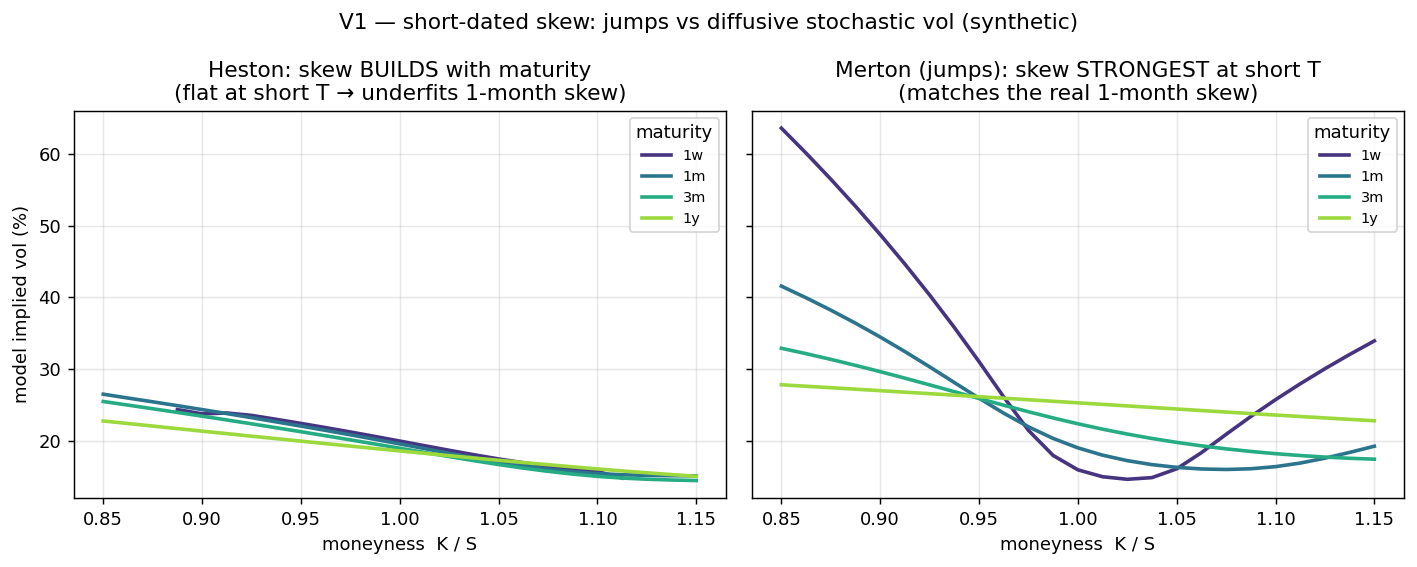
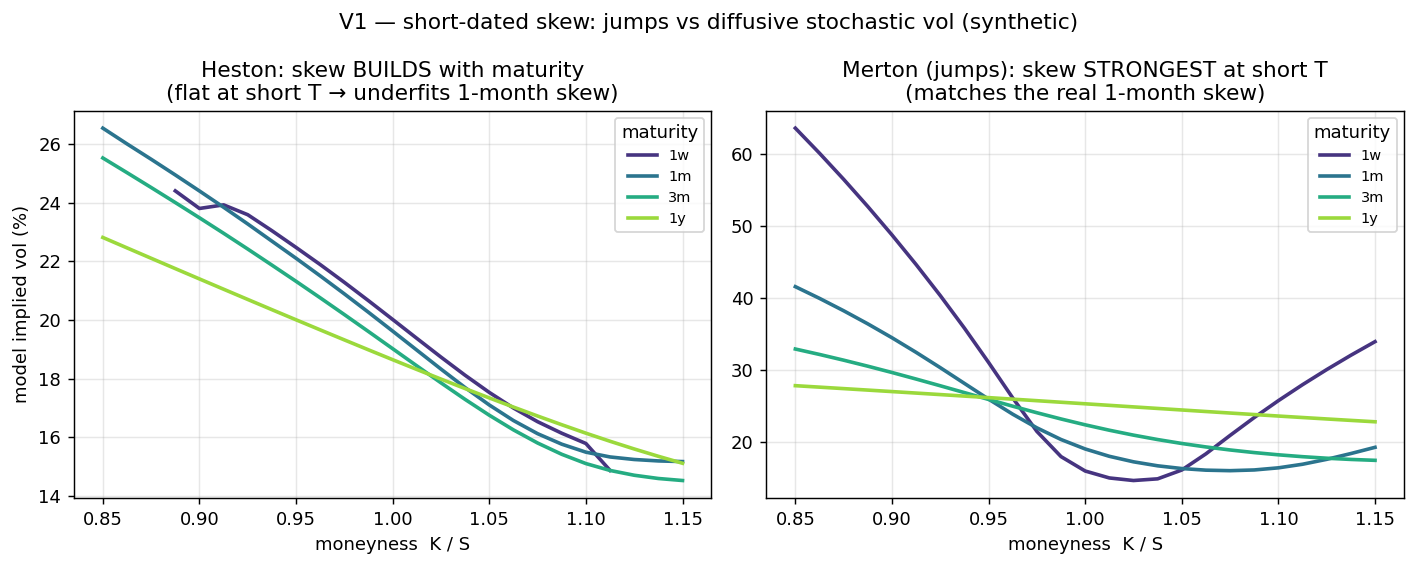
fix(figures): correct V1/V4 labels and the V4 number, regenerate
- evidence_map: V4 gamma-concentration share is now derived from the same
  computation as the V4 figure (was hardcoded 38% while the figure showed 42%).
- v4_concentration: x-axis relabelled "largest convexity-P&L first" (the curve is
  sorted by gamma P&L, not raw move size).
- v1_term_structure: drop sharey so the Heston panel is not compressed by the
  Merton short-dated spike; price all strikes in one FFT, and mask deep-wing 1w
  points whose implied vol is not invertible (no time value) instead of plotting
  a misleading cliff to 0%.
- v6_calibration: title date range now derived from the data rather than hardcoded.

diff --git a/reports/make_figures.py b/reports/make_figures.py
@@ -22,6 +22,7 @@ import numpy as np  # noqa: E402
 sys.path.insert(0, str(Path(__file__).resolve().parent.parent))
 
 from config import DEFAULT_RISK_FREE_RATE as R  # noqa: E402
+from config import TRADING_DAYS
 from data.fetcher import fetch_and_cache  # noqa: E402
 from models.black_scholes import BlackScholes  # noqa: E402
 from models.heston import HestonParams, heston_implied_vol, heston_price_fft  # noqa: E402
@@ -37,13 +38,26 @@ def _miss():
     raise RuntimeError("cache missing — run the V-notebooks first")
 
 
+def _top5_convexity_share() -> int:
+    """Return the top-5% convexity-P&L share as an integer percent (used in V4 figures)."""
+    S, IV = _spy_vix()
+    tau = 21 / TRADING_DAYS
+    dS = np.diff(S)
+    gamma = np.array([BlackScholes(S[t], S[t], tau, R, IV[t]).gamma() for t in range(len(S) - 1)])
+    gpnl = 0.5 * gamma * dS ** 2
+    order = np.argsort(gpnl)[::-1]
+    cum = np.cumsum(gpnl[order]) / gpnl.sum()
+    return int(round(cum[int(0.05 * len(cum))] * 100))
+
+
 def fig_evidence_map() -> None:
     """Synthetic claim → real-data verdict, one row per verification (the project anchor)."""
+    v4_share = _top5_convexity_share()
     rows = [
         ("V1  smile / skew", "Merton (jumps) fits short skew 0.52vp;\nHeston underfits 1.7vp; flat BS 4.5vp", GREEN),
         ("V2  fat tails", "excess kurtosis 15.2, GBM rejected\n(Student-t/jump-mix beats Normal by AIC)", GREEN),
         ("V3  MV-delta", "positive vs 0% GBM null; magnitude\ninflated by VIX-as-IV (~88% leakage)", AMBER),
-        ("V4  gamma P&L", "concentrates on big moves (38%) —\n= fat-tail null, illustrative not jumps", AMBER),
+        ("V4  gamma P&L", f"concentrates on big moves ({v4_share}%) —\n= fat-tail null, illustrative not jumps", AMBER),
         ("V5  deep hedge OOS", "−42% turnover, CI [0.56,0.62] (clean);\nCVaR gain not robust (drift-aided)", GREEN),
         ("V6  longshot bias", "83k markets: slope 1.08 > 1 across tiers/years\n(cluster-robust); longshot side measure-sensitive", GREEN),
     ]
@@ -78,14 +92,22 @@ def fig_v1_term_structure() -> None:
     K = mny * S
     maturities = [(1 / 52, "1w"), (1 / 12, "1m"), (0.25, "3m"), (1.0, "1y")]
     hp = HestonParams(kappa=2.0, theta=0.04, xi=0.6, rho=-0.7, v0=0.04)
-    fig, (a1, a2) = plt.subplots(1, 2, figsize=(11, 4.4), sharey=True)
+    fig, (a1, a2) = plt.subplots(1, 2, figsize=(11, 4.4), sharey=False)
     cmap = plt.cm.viridis(np.linspace(0.15, 0.85, len(maturities)))
     for (T, lbl), c in zip(maturities, cmap, strict=False):
-        hiv = [heston_implied_vol(float(heston_price_fft(S, np.array([k]), T, R, hp)[0]), S, k, T, R) for k in K]
-        miv = [BlackScholes(S, k, T, R, 0.2).implied_vol(
-            MertonJumpDiffusion(S, k, T, R, 0.13, 1.0, -0.18, 0.15).price("call"), "call") for k in K]
-        a1.plot(mny, np.array(hiv) * 100, color=c, lw=2, label=lbl)
-        a2.plot(mny, np.array(miv) * 100, color=c, lw=2, label=lbl)
+        # Price every strike in one FFT, then invert. Deep-wing 1w options have
+        # no invertible time value (FFT price = intrinsic), so their implied vol
+        # comes back ~0; mask those rather than draw a misleading cliff to zero.
+        hpx = heston_price_fft(S, K, T, R, hp)
+        hiv = np.array([heston_implied_vol(float(px), S, k, T, R) or np.nan
+                        for px, k in zip(hpx, K, strict=False)], dtype=float)
+        miv = np.array([BlackScholes(S, k, T, R, 0.2).implied_vol(
+            MertonJumpDiffusion(S, k, T, R, 0.13, 1.0, -0.18, 0.15).price("call"), "call") or np.nan
+            for k in K], dtype=float)
+        hiv[hiv < 1e-4] = np.nan
+        miv[miv < 1e-4] = np.nan
+        a1.plot(mny, hiv * 100, color=c, lw=2, label=lbl)
+        a2.plot(mny, miv * 100, color=c, lw=2, label=lbl)
     a1.set_title("Heston: skew BUILDS with maturity\n(flat at short T → underfits 1-month skew)")
     a2.set_title("Merton (jumps): skew STRONGEST at short T\n(matches the real 1-month skew)")
     for a in (a1, a2):
@@ -108,7 +130,7 @@ def _spy_vix():
 def fig_v4_concentration() -> None:
     """Short-gamma P&L concentrates on big-move days — vs a fat-tailed null."""
     S, IV = _spy_vix()
-    tau = 21 / 252
+    tau = 21 / TRADING_DAYS
     dS = np.diff(S)
     gamma = np.array([BlackScholes(S[t], S[t], tau, R, IV[t]).gamma() for t in range(len(S) - 1)])
     gpnl = 0.5 * gamma * dS ** 2
@@ -120,7 +142,7 @@ def fig_v4_concentration() -> None:
     a1.plot([0, 100], [0, 100], color=GREY, ls=":", label="uniform (no concentration)")
     a1.axvline(5, color=AMBER, ls="--", lw=1)
     a1.text(6, 20, f"top 5% of days\n→ {cum[int(0.05 * len(cum))] * 100:.0f}% of convexity P&L", fontsize=8.5)
-    a1.set_xlabel("% of days (largest move first)")
+    a1.set_xlabel("% of days (largest convexity-P&L first)")
     a1.set_ylabel("cumulative % of convexity P&L")
     a1.set_title("Convexity P&L is concentrated…")
     rng = np.random.default_rng(42)
@@ -144,6 +166,8 @@ def fig_v4_concentration() -> None:
 def fig_v6_calibration() -> None:
     """The favorite–longshot calibration curve over 83k resolved Polymarket markets."""
     pm = fetch_and_cache("polymarket", "resolved_trades", "2026-06-20", _miss)
+    _yr_min = int(pm["end_date"].dt.year.min())
+    _yr_max = int(pm["end_date"].dt.year.max())
     p = pm["prob"].to_numpy()
     y = pm["y"].to_numpy()
     edges = np.array([0, .05, .1, .2, .35, .5, .65, .8, .95, 1.0])
@@ -165,7 +189,7 @@ def fig_v6_calibration() -> None:
     ax.text(0.52, 0.92, "favorites underpriced\n(above the line)", fontsize=8.5, color=GREEN)
     ax.set_xlabel("market price (implied YES probability)")
     ax.set_ylabel("realised YES frequency")
-    ax.set_title("V6 — favorite–longshot bias on Polymarket (2023–2028)\n"
+    ax.set_title(f"V6 — favorite–longshot bias on Polymarket ({_yr_min}–{_yr_max})\n"
                  "slope 1.08 > 1 across tiers and years (cluster-robust)")
     ax.set_xlim(0, 1)
     ax.set_ylim(0, 1)